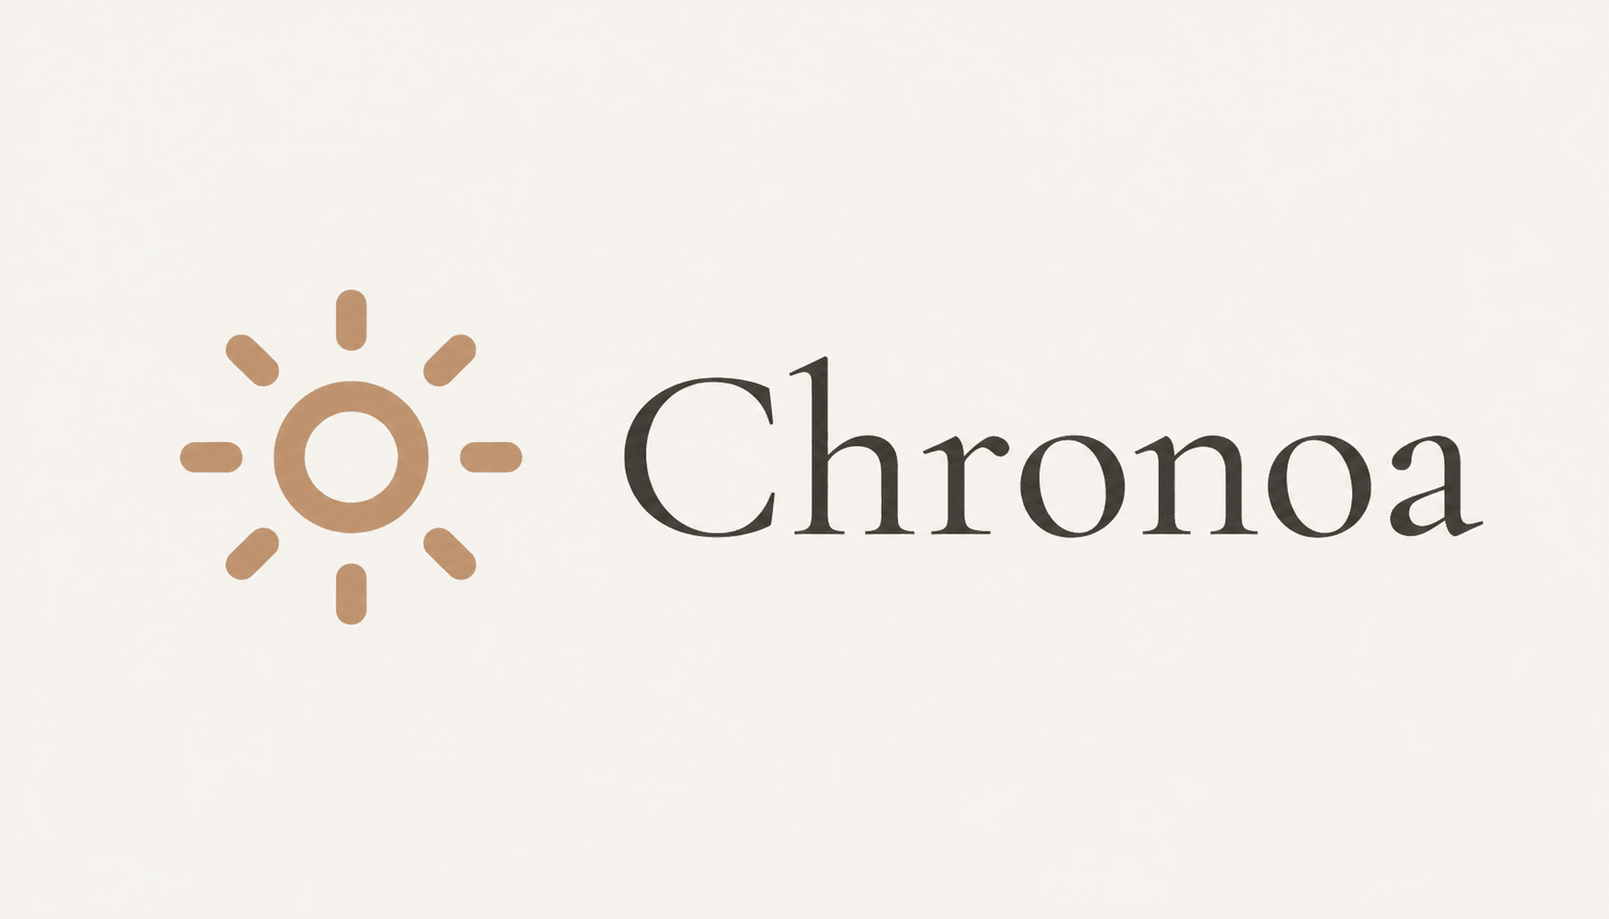
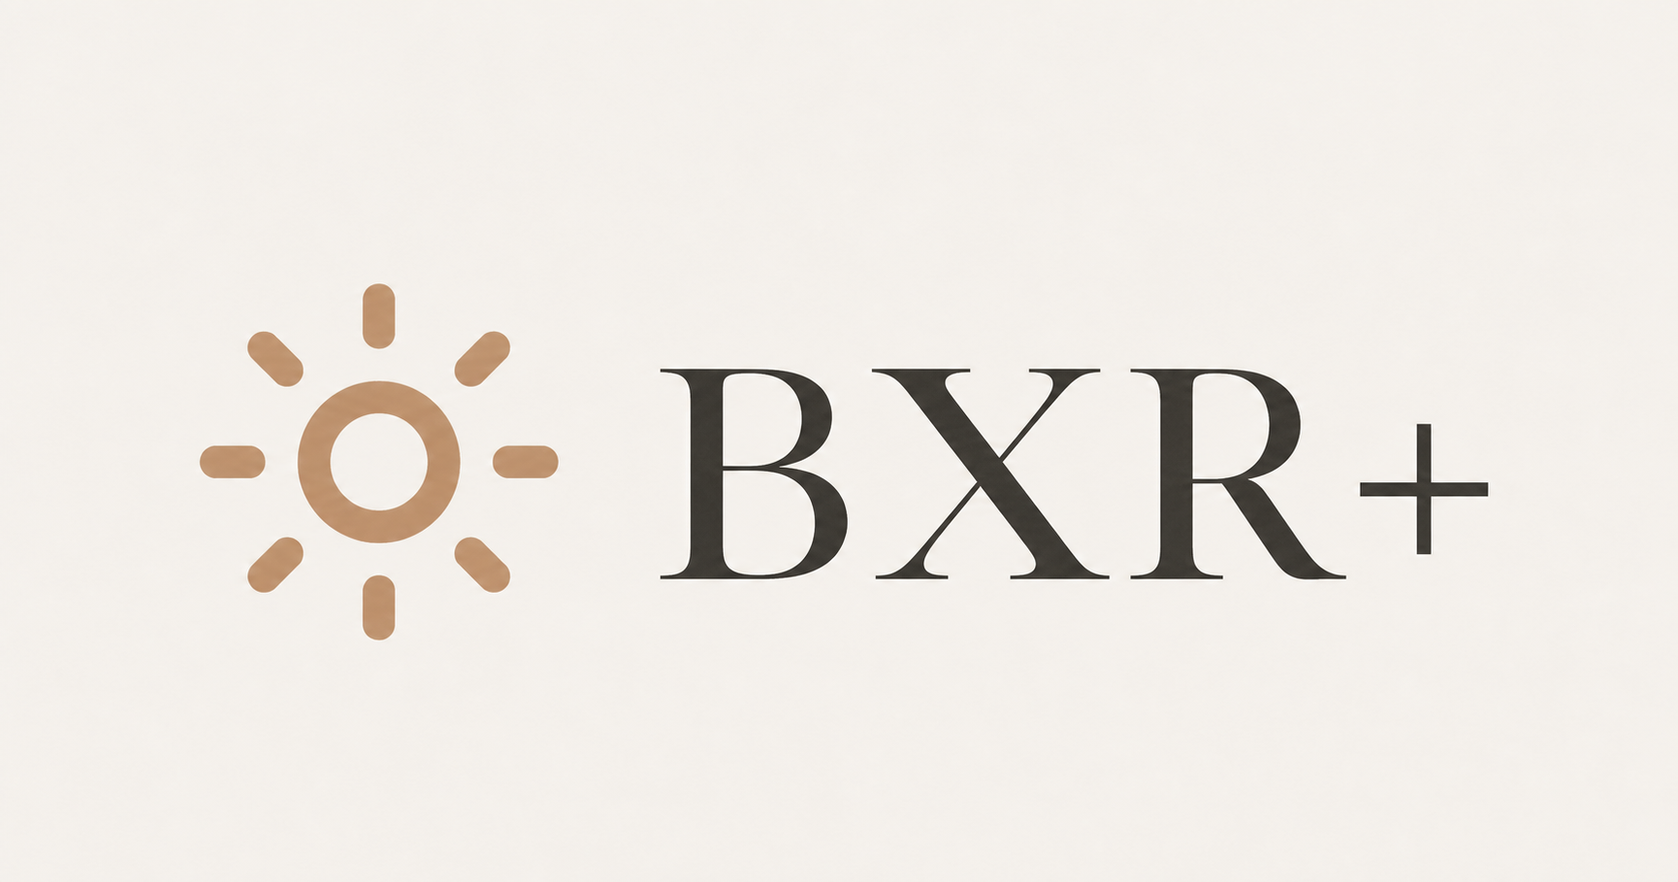
Replace Chronoa branding with BXR+

Changed region(s): [[0.3689, 0.3696, 0.9222, 0.6777], [0.0922, 0.308, 0.3382, 0.7393], [0.123, 0.3696, 0.1537, 0.4004]]

diff --git a/app/(dashboard)/page.tsx b/app/(dashboard)/page.tsx
@@ -5,7 +5,7 @@ import { useEffect, useState } from "react";
 import { useRouter } from "next/navigation";
 import { supabase } from "@/lib/supabase";
 import { motion } from "framer-motion";
-import { LandingNav, ChronoaLogo, GithubIcon, useGoogleLogin } from "@/components/landing/LandingNav";
+import { LandingNav, BxrPlusLogo, GithubIcon, useGoogleLogin } from "@/components/landing/LandingNav";
 import { MockHomeSandbox, MockTaskSandbox, MockTimeSandbox, MockCalendarSandbox, MockNotesSandbox, MockAnalyticsSandbox } from "@/components/landing/Sandboxes";
 import { DownloadsSection } from "@/components/landing/Downloads";
 import DeveloperMessageModal from "@/components/landing/DeveloperMessageModal";
@@ -141,7 +141,7 @@ export default function LandingPage() {
             
             <div className="relative z-10 flex flex-col items-center">
               <div className="w-24 h-24 bg-[#c2956e]/10 dark:bg-[#b0855f]/20 rounded-full flex items-center justify-center mb-8 shadow-sm text-[#c2956e] dark:text-[#b0855f]">
-                <ChronoaLogo className="w-12 h-12" />
+                <BxrPlusLogo className="w-12 h-12" />
               </div>
               <h3 className="text-4xl md:text-6xl font-serif mb-6 text-[#3d3b33] dark:text-white leading-tight">Your journey<br/> starts here.</h3>
               <p className="text-[#888] dark:text-[#a0a0a0] max-w-md mx-auto mb-10 text-sm md:text-base leading-relaxed">
@@ -170,8 +170,8 @@ export default function LandingPage() {
         <div className="max-w-7xl mx-auto flex flex-col md:flex-row justify-between items-center md:items-start gap-10 md:gap-0">
            <div className="flex flex-col items-center md:items-start gap-4">
               <div className="flex items-center gap-3 text-[#3d3b33] dark:text-[#e0e0e0]">
-                 <ChronoaLogo className="w-8 h-8 text-[#c2956e] dark:text-[#b0855f]" />
-                 <span className="text-2xl font-serif font-medium tracking-tight">Chronoa</span>
+                 <BxrPlusLogo className="w-8 h-8 text-[#c2956e] dark:text-[#b0855f]" />
+                 <span className="text-2xl font-serif font-medium tracking-tight">BXR+</span>
               </div>
               <p className="text-sm text-[#888] dark:text-[#a0a0a0] max-w-xs text-center md:text-left">
                 Your aesthetic workspace. Completely synced and designed for deep focus.
@@ -179,7 +179,7 @@ export default function LandingPage() {
            </div>
            <div className="flex flex-col items-center md:items-end gap-4">
               <div className="flex gap-4">
-                 <a href="https://github.com/XeCipher/Chronoa" target="_blank" rel="noreferrer" className="flex items-center gap-2 px-5 py-2.5 rounded-xl bg-white dark:bg-[#252525] border border-[#e0ddd5] dark:border-[#333] text-[#888] hover:text-[#3d3b33] dark:hover:text-[#f0f0f0] transition-colors shadow-sm text-xs font-bold uppercase tracking-widest">
+                 <a href="https://github.com/sebastiancoombs/BXRplus" target="_blank" rel="noreferrer" className="flex items-center gap-2 px-5 py-2.5 rounded-xl bg-white dark:bg-[#252525] border border-[#e0ddd5] dark:border-[#333] text-[#888] hover:text-[#3d3b33] dark:hover:text-[#f0f0f0] transition-colors shadow-sm text-xs font-bold uppercase tracking-widest">
                    <GithubIcon size={16} /> GitHub
                  </a>
                  <button onClick={() => setIsDeveloperModalOpen(true)} className="flex items-center gap-2 px-5 py-2.5 rounded-xl bg-[#c2956e] text-white hover:bg-[#b0855f] transition-colors shadow-sm text-xs font-bold uppercase tracking-widest">
@@ -189,7 +189,7 @@ export default function LandingPage() {
            </div>
         </div>
         <div className="max-w-7xl mx-auto mt-16 pt-8 border-t border-[#e0ddd5] dark:border-[#2a2a2a] text-center flex flex-col md:flex-row justify-between items-center gap-4 text-[10px] font-bold uppercase tracking-widest text-[#b0ad9a] dark:text-[#555]">
-           <span>© {new Date().getFullYear()} Chronoa. Open Source.</span>
+           <span>© {new Date().getFullYear()} BXR+.</span>
            <span>Built with Next.js & Supabase</span>
         </div>
       </footer>

diff --git a/app/(dashboard)/settings/page.tsx b/app/(dashboard)/settings/page.tsx
@@ -183,8 +183,8 @@ export default function SettingsPage() {
     if (showGithubModal && githubCountdown > 0) timer = setTimeout(() => setGithubCountdown(githubCountdown - 1), 1000);
     else if (showGithubModal && githubCountdown === 0) {
       const isStandalone = window.matchMedia('(display-mode: standalone)').matches || ('standalone' in navigator && (navigator as any).standalone);
-      if (isStandalone) window.location.href = "https://github.com/XeCipher/Chronoa";
-      else window.open("https://github.com/XeCipher/Chronoa", "_blank");
+      if (isStandalone) window.location.href = "https://github.com/sebastiancoombs/BXRplus";
+      else window.open("https://github.com/sebastiancoombs/BXRplus", "_blank");
       setShowGithubModal(false);
       setGithubCountdown(-1);
     }
@@ -452,7 +452,7 @@ export default function SettingsPage() {
       const url = URL.createObjectURL(blob);
       const link = document.createElement('a');
       link.href = url;
-      link.setAttribute('download', 'Chronoa_Calendar.ics');
+      link.setAttribute('download', 'BXRplus_Calendar.ics');
       document.body.appendChild(link);
       link.click();
       document.body.removeChild(link);
@@ -671,7 +671,7 @@ export default function SettingsPage() {
               <div className="pt-6 mt-2 border-t border-[#e0ddd5] dark:border-[#333] flex flex-col md:flex-row justify-between items-start md:items-center gap-4">
                  <div>
                     <h4 className="text-sm font-bold text-[#3d3b33] dark:text-[#f0f0f0]">Export Calendar</h4>
-                    <p className="text-[11px] text-[#b0ad9a] dark:text-[#7a7a7a]">Download your created Chronoa events locally.</p>
+                    <p className="text-[11px] text-[#b0ad9a] dark:text-[#7a7a7a]">Download your created BXR+ events locally.</p>
                  </div>
                  <button onClick={handleExportCalendar} className="flex items-center gap-2 px-6 py-3 bg-white dark:bg-[#1a1a1a] border border-[#e0ddd5] dark:border-[#333] text-[#3d3b33] dark:text-[#f0f0f0] rounded-xl text-[10px] font-bold uppercase tracking-widest shadow-sm hover:bg-gray-50 dark:hover:bg-[#222] transition-colors shrink-0">
                     <Download size={16} /> Export .ics
@@ -898,7 +898,7 @@ export default function SettingsPage() {
              <Info size={20} className="text-[#c2956e] dark:text-[#d1a784]" />
              <h3 className="text-xl font-medium"><HighlightText text="Developer & Source" query={searchQuery} /></h3>
           </div>
-          <p className="text-xs text-[#b0ad9a] dark:text-[#7a7a7a] mt-1 mb-4"><HighlightText text="Chronoa is an open-source workspace built for deep focus. If you have any feature suggestions, want to reach out to the developer, or report an issue, we'd love to hear from you. Every feedback is reviewed within 24 hours of submission." query={searchQuery} /></p>
+          <p className="text-xs text-[#b0ad9a] dark:text-[#7a7a7a] mt-1 mb-4"><HighlightText text="BXR+ is a shared workspace for ABA care teams. If you have a feature suggestion or need to report an issue, we'd love to hear from you." query={searchQuery} /></p>
           <div className="flex flex-row items-center gap-3">
             <button onClick={() => setIsFeedbackModalOpen(true)} className="flex-1 sm:flex-none w-full sm:w-auto flex items-center justify-center gap-2 px-4 sm:px-6 py-3 bg-[#c2956e] text-white rounded-xl text-[10px] font-bold uppercase tracking-widest hover:bg-[#b0855f] transition-all shadow-md whitespace-nowrap">
               <MessageSquareHeart size={16} /> Share Feedback

diff --git a/app/(dashboard)/analytics/page.tsx b/app/(dashboard)/analytics/page.tsx
@@ -39,7 +39,7 @@ export const RANKS =[
   { name: "Blossom", minLevel: 15, minXp: 11111 },
   { name: "Grandmaster", minLevel: 20, minXp: 20000 },
   { name: "Legend", minLevel: 30, minXp: 45000 },
-  { name: "Chronoa Ascendant", minLevel: 50, minXp: 125000 }
+  { name: "BXR+ Ascendant", minLevel: 50, minXp: 125000 }
 ];
 
 const RANK_MESSAGES: Record<string, string> = {
@@ -50,7 +50,7 @@ const RANK_MESSAGES: Record<string, string> = {
   "Blossom": "Your productivity is in full bloom.",
   "Grandmaster": "A true master of time and focus.",
   "Legend": "Your dedication is legendary.",
-  "Chronoa Ascendant": "You have transcended time itself."
+  "BXR+ Ascendant": "You have transcended time itself."
 };
 
 const escapeRegExp = (string: string) => {
@@ -542,7 +542,7 @@ export default function AnalyticsPage() {
             <RankBadge rank={data?.levelInfo.rank || "Novice"} className="w-20 h-20" />
             <div>
               <div className="flex items-center gap-2 mb-1">
-                <p className="text-[10px] text-[#c2956e] dark:text-[#b0855f] font-bold uppercase tracking-widest">Chronoa Rank</p>
+                <p className="text-[10px] text-[#c2956e] dark:text-[#b0855f] font-bold uppercase tracking-widest">BXR+ Rank</p>
                 <button onClick={() => setIsRankModalOpen(true)} className="outline-none p-1 -m-1">
                   <Info size={14} className="text-[#888] hover:text-[#c2956e] transition-colors" />
                 </button>
@@ -679,7 +679,7 @@ export default function AnalyticsPage() {
             
             <header className="px-8 py-6 border-b border-[#e0ddd5] dark:border-[#2a2a2a] flex justify-between items-center bg-white dark:bg-[#1a1a1a]">
               <div>
-                <h3 className="text-3xl font-serif text-[#3d3b33] dark:text-white">Chronoa Ranks</h3>
+                <h3 className="text-3xl font-serif text-[#3d3b33] dark:text-white">BXR+ Ranks</h3>
                 <p className="text-[10px] text-[#b0ad9a] dark:text-[#7a7a7a] font-bold uppercase tracking-widest mt-1">Evolve through consistency</p>
               </div>
               <button onClick={() => setIsRankModalOpen(false)} className="p-2 rounded-full bg-[#f0ede8] dark:bg-[#222] hover:bg-[#e0ddd5] dark:hover:bg-[#333] transition-colors text-[#3d3b33] dark:text-white">
@@ -691,7 +691,7 @@ export default function AnalyticsPage() {
               <div className="flex gap-4 p-4 bg-white dark:bg-[#1a1a1a] border border-[#e0ddd5] dark:border-[#2a2a2a] rounded-2xl">
                 <Info className="text-[#c2956e] shrink-0 mt-0.5" size={20} />
                 <div className="text-sm text-[#3d3b33] dark:text-[#e0e0e0] leading-relaxed">
-                  <span className="font-bold">How XP Works:</span> You earn XP automatically as you use Chronoa.
+                  <span className="font-bold">How XP Works:</span> You earn XP automatically as you use BXR+.
                   <ul className="mt-4 flex flex-col sm:flex-row sm:items-center gap-y-3 gap-x-10">
                     <li className="flex items-center gap-2.5">
                       <div className="w-2 h-2 rounded-full bg-[#7ca982] shrink-0 shadow-[0_0_8px_rgba(124,169,130,0.3)]" />

diff --git a/components/landing/Downloads.tsx b/components/landing/Downloads.tsx
@@ -11,7 +11,7 @@ export function DownloadsSection() {
       <div className="text-center mb-16 px-4">
         <h3 className="text-4xl md:text-5xl font-serif text-[#3d3b33] dark:text-[#f0f0f0] mb-4 tracking-tight">Take It Anywhere</h3>
         <p className="text-[#888] dark:text-[#a0a0a0] text-sm md:text-base max-w-lg mx-auto leading-relaxed">
-          Chronoa is designed to live natively on your home screen. Install it for a completely immersive, full-screen sanctuary.
+          BXR+ is designed to live natively on your home screen. Install it for a completely immersive, full-screen sanctuary.
         </p>
       </div>
 
@@ -35,10 +35,10 @@ export function DownloadsSection() {
               <div className="bg-amber-50/80 dark:bg-amber-900/10 border border-amber-200/60 dark:border-amber-900/30 p-3 md:p-4 rounded-xl md:rounded-2xl flex gap-2 md:gap-3 mb-4 md:mb-8 backdrop-blur-sm">
                 <ShieldAlert size={16} className="md:w-[18px] md:h-[18px] text-amber-600 dark:text-amber-500 shrink-0 mt-0.5" />
                 <p className="text-[10px] md:text-[11px] text-amber-800 dark:text-amber-400/90 font-medium leading-relaxed">
-                  Your browser may flag this as "harmful" since it's not on the Play Store. Chronoa is fully open-source and completely safe.
+                  Your browser may flag this as "harmful" since it's not on the Play Store. BXR+ is fully open-source and completely safe.
                 </p>
               </div>
-              <a href="/chronoa.apk" download className="w-full flex items-center justify-center gap-2 py-3 md:py-4 bg-[#7ca982] text-white font-bold text-[10px] md:text-[11px] uppercase tracking-widest rounded-xl md:rounded-2xl hover:bg-[#6a9a70] hover:-translate-y-1 transition-all shadow-[0_8px_20px_rgba(124,169,130,0.3)]">
+              <a href="/bxrplus.apk" download className="w-full flex items-center justify-center gap-2 py-3 md:py-4 bg-[#7ca982] text-white font-bold text-[10px] md:text-[11px] uppercase tracking-widest rounded-xl md:rounded-2xl hover:bg-[#6a9a70] hover:-translate-y-1 transition-all shadow-[0_8px_20px_rgba(124,169,130,0.3)]">
                 <Download size={16} /> Download APK (1.4 MB)
               </a>
             </div>
@@ -57,7 +57,7 @@ export function DownloadsSection() {
             </div>
             <h4 className="text-2xl md:text-3xl font-serif text-[#3d3b33] dark:text-[#f0f0f0] mb-2 md:mb-3">iOS & Web App</h4>
             <p className="text-xs md:text-sm text-[#888] dark:text-[#a0a0a0] leading-relaxed mb-3 md:mb-8">
-              Install Chronoa seamlessly via your browser to get a native app icon on your home screen, without touching an App Store.
+              Install BXR+ seamlessly via your browser to get a native app icon on your home screen, without touching an App Store.
             </p>
 
             <div className="mt-auto hidden md:block space-y-4">

diff --git a/components/landing/LandingNav.tsx b/components/landing/LandingNav.tsx
@@ -25,7 +25,7 @@ export const GithubIcon = ({ size = 20, className = "" }) => (
   </svg>
 );
 
-export const ChronoaLogo = ({ className = "w-10 h-10" }: { className?: string }) => (
+export const BxrPlusLogo = ({ className = "w-10 h-10" }: { className?: string }) => (
   <Sun className={className} strokeWidth={2} />
 );
 
@@ -66,16 +66,16 @@ export function LandingNav() {
           onClick={scrollToTop}
           className="flex items-center gap-3 cursor-pointer group hover:opacity-80 transition-opacity"
         >
-          <ChronoaLogo className="w-8 h-8 sm:w-9 sm:h-9 text-[#c2956e] dark:text-[#b0855f] group-hover:rotate-45 transition-transform duration-700 ease-out" />
+          <BxrPlusLogo className="w-8 h-8 sm:w-9 sm:h-9 text-[#c2956e] dark:text-[#b0855f] group-hover:rotate-45 transition-transform duration-700 ease-out" />
           <h1 className="text-2xl sm:text-3xl text-[#3d3b33] dark:text-[#e0e0e0] font-serif font-medium tracking-tight">
-            Chronoa
+            BXR+
           </h1>
         </div>
         <div className="flex items-center gap-2 md:gap-4">
           <button onClick={toggleTheme} className="w-10 h-10 flex items-center justify-center rounded-full text-[#888] hover:text-[#c2956e] dark:hover:text-[#d1a784] hover:bg-black/5 dark:hover:bg-white/5 transition-all">
             {mounted ? (isCurrentlyDark ? <Sun size={18} /> : <Moon size={18} />) : <Moon size={18} />}
           </button>
-          <a href="https://github.com/XeCipher/Chronoa" target="_blank" rel="noreferrer" className="flex w-10 h-10 items-center justify-center rounded-full text-[#888] hover:text-[#3d3b33] dark:hover:text-white hover:bg-black/5 dark:hover:bg-white/5 transition-all">
+          <a href="https://github.com/sebastiancoombs/BXRplus" target="_blank" rel="noreferrer" className="flex w-10 h-10 items-center justify-center rounded-full text-[#888] hover:text-[#3d3b33] dark:hover:text-white hover:bg-black/5 dark:hover:bg-white/5 transition-all">
             <GithubIcon size={20} />
           </a>
           <button onClick={handleLogin} disabled={isLoggingIn} className="ml-1 sm:ml-0 px-5 md:px-6 py-2.5 bg-[#1a1a1a] dark:bg-white text-white dark:text-[#1a1a1a] rounded-full text-[10px] md:text-[11px] font-bold uppercase tracking-widest hover:scale-105 transition-transform shadow-lg disabled:opacity-50">

diff --git a/components/landing/MockData.ts b/components/landing/MockData.ts
@@ -86,7 +86,7 @@ export const initialMockTasks: Task[] = [
   { id: '1', user_id: 'mock', title: 'Morning Routine', task_type: 'routine', parent_id: null, position: 0, is_completed: false, created_at: new Date().toISOString(), completed_at: null, deleted_at: null, color: 'blue', keep_alive: true, is_collapsed: false, children: [] },
   { id: '2', user_id: 'mock', title: 'Drink water', task_type: 'routine', parent_id: '1', position: 0, is_completed: true, created_at: new Date().toISOString(), completed_at: new Date().toISOString(), deleted_at: null, color: null, keep_alive: false, is_collapsed: false, children:[] },
   { id: '3', user_id: 'mock', title: 'Read 10 pages', task_type: 'routine', parent_id: '1', position: 1, is_completed: false, created_at: new Date().toISOString(), completed_at: null, deleted_at: null, color: null, keep_alive: false, is_collapsed: false, children:[] },
-  { id: '4', user_id: 'mock', title: 'Project Chronoa', task_type: 'normal', parent_id: null, position: 0, is_completed: false, created_at: new Date().toISOString(), completed_at: null, deleted_at: null, color: 'emerald', keep_alive: true, is_collapsed: false, children:[] },
+  { id: '4', user_id: 'mock', title: 'Project BXR+', task_type: 'normal', parent_id: null, position: 0, is_completed: false, created_at: new Date().toISOString(), completed_at: null, deleted_at: null, color: 'emerald', keep_alive: true, is_collapsed: false, children:[] },
   { id: '5', user_id: 'mock', title: 'Design Landing Page', task_type: 'normal', parent_id: '4', position: 0, is_completed: true, created_at: new Date().toISOString(), completed_at: new Date().toISOString(), deleted_at: null, color: null, keep_alive: false, is_collapsed: false, children:[] },
   { id: '6', user_id: 'mock', title: 'Implement Sandbox Features', task_type: 'normal', parent_id: '4', position: 1, is_completed: false, created_at: new Date().toISOString(), completed_at: null, deleted_at: null, color: null, keep_alive: false, is_collapsed: false, children:[] },
 ];

diff --git a/components/landing/Sandboxes.tsx b/components/landing/Sandboxes.tsx
@@ -799,7 +799,7 @@ export function MockCalendarSandbox() {
 }
 
 export function MockNotesSandbox() {
-  const [content, setContent] = useState(`<h1>A Blank Canvas</h1><p>Chronoa provides a completely distraction-free markdown environment for your thoughts, meeting notes, and daily journaling.</p><p><br/></p><p>Go ahead, <strong>type something here</strong>. Use standard markdown shortcuts or highlight text to style it.</p>`);
+  const [content, setContent] = useState(`<h1>A Blank Canvas</h1><p>BXR+ provides a completely distraction-free markdown environment for your thoughts, meeting notes, and daily journaling.</p><p><br/></p><p>Go ahead, <strong>type something here</strong>. Use standard markdown shortcuts or highlight text to style it.</p>`);
 
   return (
     <div className="w-full flex flex-col gap-4 md:gap-6 my-10 md:my-20 max-lg:h-[72vh] max-lg:max-h-[550px] max-lg:min-h-[430px]">
@@ -825,7 +825,7 @@ export function MockAnalyticsSandbox() {
       <div className="text-center max-w-2xl mx-auto mb-10 px-4 w-full">
         <h3 className="text-3xl md:text-4xl font-serif text-[#3d3b33] dark:text-[#f0f0f0] mb-3">Insights That Matter</h3>
         <p className="text-[#888] dark:text-[#a0a0a0] leading-relaxed text-sm">
-          Chronoa passively analyzes your activity, helping you discover your peak performance hours, flow states, and focus distribution. 
+          BXR+ passively analyzes your activity, helping you discover your peak performance hours, flow states, and focus distribution. 
         </p>
       </div>
 

diff --git a/components/settings/FeedbackModal.tsx b/components/settings/FeedbackModal.tsx
@@ -192,7 +192,7 @@ export default function FeedbackModal({ isOpen, onClose }: Props) {
                 {step === 1 && <MessageSquareHeart size={18} className="text-[#c2956e]" />}
               </h3>
               <div className="text-[10px] font-bold text-[#b0ad9a] dark:text-[#7a7a7a] uppercase tracking-widest mt-0.5">
-                {step === 1 ? "Help us improve Chronoa" : step === 2 ? "Rate your experience" : "Feedback received"}
+                {step === 1 ? "Help us improve BXR+" : step === 2 ? "Rate your experience" : "Feedback received"}
               </div>
             </div>
           </div>
@@ -267,7 +267,7 @@ export default function FeedbackModal({ isOpen, onClose }: Props) {
              <div className="w-16 h-16 bg-[#c2956e]/10 dark:bg-[#b0855f]/10 rounded-full flex items-center justify-center mb-6">
                 <Star size={32} className="text-[#c2956e] dark:text-[#d1a784] fill-current" />
              </div>
-             <h4 className="text-2xl font-serif text-[#3d3b33] dark:text-white mb-2 text-center">How would you rate Chronoa?</h4>
+             <h4 className="text-2xl font-serif text-[#3d3b33] dark:text-white mb-2 text-center">How would you rate BXR+?</h4>
              <p className="text-xs text-[#888] dark:text-[#7a7a7a] text-center max-w-[250px] mb-8">
                Your honest rating helps us improve the experience for everyone.
              </p>

diff --git a/components/analytics/RankBadge.tsx b/components/analytics/RankBadge.tsx
@@ -457,7 +457,7 @@ const LegendBadge = () => (
 );
 
 // ----------------------------------------------------------------------
-// Rank 8: Chronoa Ascendant (Gold / Divine) - Majestic, celestial, supreme
+// Rank 8: BXR+ Ascendant (Gold / Divine) - Majestic, celestial, supreme
 // ----------------------------------------------------------------------
 const AscendantBadge = () => (
   <svg viewBox="0 0 120 120" className="w-full h-full drop-shadow-2xl" xmlns="http://www.w3.org/2000/svg">
@@ -577,7 +577,7 @@ export default function RankBadge({ rank, className = "" }: Props) {
       case "Blossom": return <BlossomBadge />;
       case "Grandmaster": return <GrandmasterBadge />;
       case "Legend": return <LegendBadge />;
-      case "Chronoa Ascendant": return <AscendantBadge />;
+      case "BXR+ Ascendant": return <AscendantBadge />;
       default: return <NoviceBadge />;
     }
   };

diff --git a/components/ui/SidebarNav.tsx b/components/ui/SidebarNav.tsx
@@ -84,7 +84,7 @@ export default function SidebarNav() {
   ];
 
   const currentItem = desktopNavItems.find(item => item.href === pathname) || { 
-    name: pathname === '/settings' ? 'Profile' : pathname === '/sessions' ? 'Time Log' : 'Chronoa' 
+    name: pathname === '/settings' ? 'Profile' : pathname === '/sessions' ? 'Time Log' : 'BXR+' 
   };
 
   const handleTabClick = (e: React.MouseEvent, href: string, isActive: boolean) => {
@@ -141,7 +141,7 @@ export default function SidebarNav() {
                  size={28} 
               />
               <h2 className="text-3xl text-[#3d3b33] dark:text-[#e0e0e0] font-serif tracking-tight mt-1" style={{ fontFamily: 'var(--font-cormorant), serif' }}>
-                Chronoa
+                BXR+
               </h2>
             </div>
             

diff --git a/components/landing/DeveloperMessageModal.tsx b/components/landing/DeveloperMessageModal.tsx
@@ -160,7 +160,7 @@ export default function DeveloperMessageModal({ isOpen, onClose }: Props) {
              </div>
              <h4 className="text-3xl font-serif text-[#3d3b33] dark:text-white mb-2 text-center">Message Delivered</h4>
              <p className="text-sm text-[#888] dark:text-[#7a7a7a] text-center max-w-[300px] leading-relaxed">
-               Thank you for reaching out. Your feedback makes Chronoa better for everyone.
+               Thank you for reaching out. Your feedback makes BXR+ better for everyone.
              </p>
           </div>
         </div>

diff --git a/app/layout.tsx b/app/layout.tsx
@@ -17,17 +17,17 @@ const dmSans = DM_Sans({
 });
 
 export const metadata: Metadata = {
-  title: "Chronoa",
+  title: "BXR+",
   description: "Your aesthetic workspace. Completely synced.",
   openGraph: {
-    title: "Chronoa",
+    title: "BXR+",
     description: "Your aesthetic workspace. Completely synced.",
     images:[{ url: '/opengraph-image.png', width: 1200, height: 630 }],
     type: 'website',
   },
   appleWebApp: {
     capable: true,
-    title: "Chronoa",
+    title: "BXR+",
     statusBarStyle: "black-translucent",
   },
   icons: {
